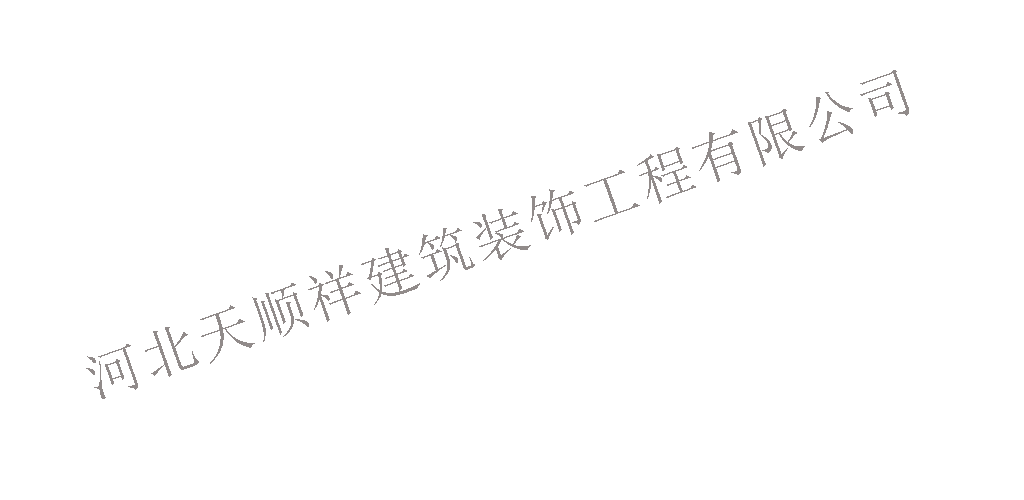
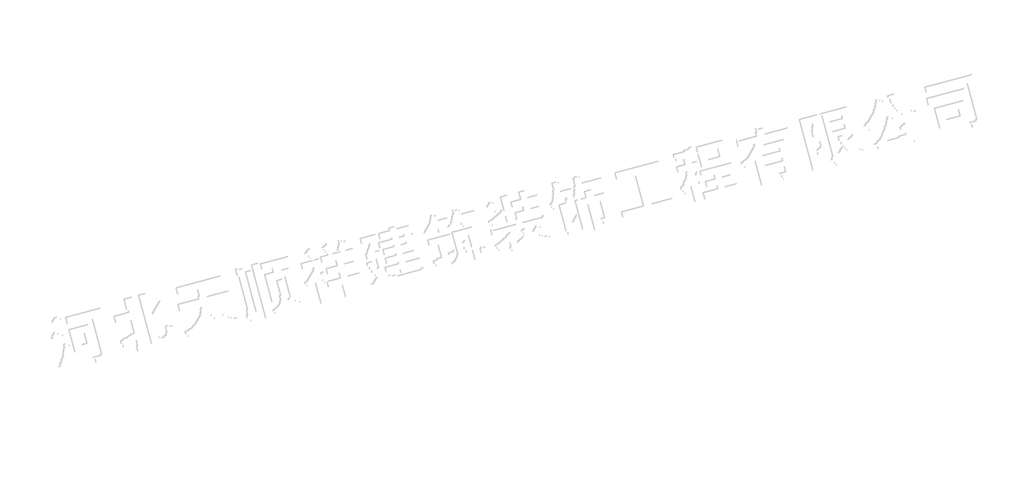
部分页面增加水印

Changed region(s): [[0.0938, 0.15, 0.9375, 0.78], [0.0625, 0.63, 0.0938, 0.69], [0.125, 0.6, 0.1562, 0.63]]

diff --git a/src/main/resources/templates/3_8_1.html b/src/main/resources/templates/3_8_1.html
@@ -5,6 +5,11 @@
     <title>建筑防水产品根本形态</title>
     <link rel="stylesheet" type="text/css" href="/css/common.css">
     <style type="text/css">
+      body{
+          background-image:url(/image/mask.png);
+          background-repeat: repeat
+      }
+
         .trait{
             width: 100%;
             height: 200px;
